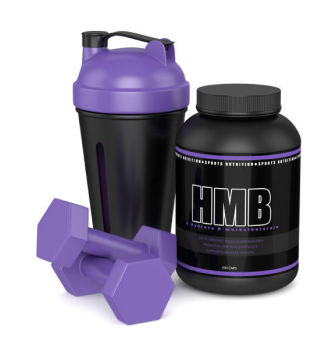
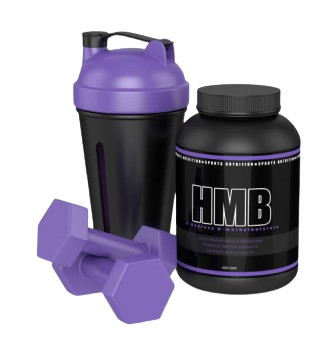
update add to card photo margin

diff --git a/client/src/section/SidePage/AddCardInfo.tsx b/client/src/section/SidePage/AddCardInfo.tsx
@@ -24,7 +24,7 @@ const AddCardInfo = () => {
 
           <div className="max-w-4xl mx-auto w-full h-full p-6 grid grid-cols-1 md:grid-cols-2 gap-8">
             <div className="w-full h-full">
-              <img src={addcartphoto} alt="Product" className="max-w-full h-auto" />
+              <img src={addcartphoto} alt="Product" className="max-w-full h-auto mt-16" />
             </div>
 
             <div className="w-full h-full flex flex-col justify-start">

diff --git a/client/src/section/Workout/Routiens.tsx b/client/src/section/Workout/Routiens.tsx
@@ -1,6 +1,5 @@
 import { Card, CardContent } from "@/components/ui/card";
 import { Button } from "@/components/ui/button";
-import { ArrowLeft, ArrowRight } from "lucide-react";
 import { IoIosArrowBack, IoIosArrowForward } from "react-icons/io";
 
 const Routines = () => {
